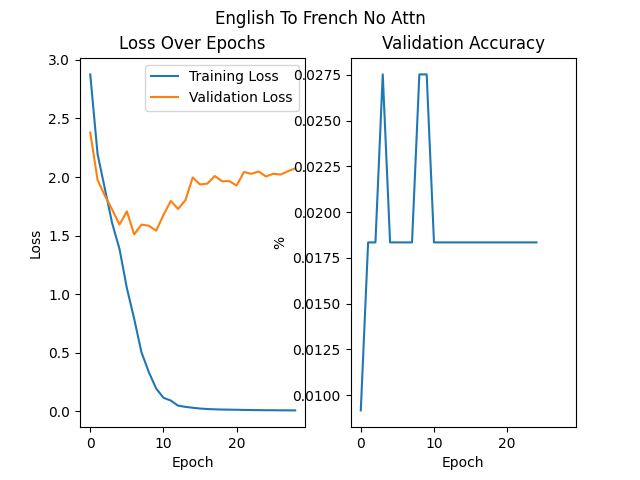
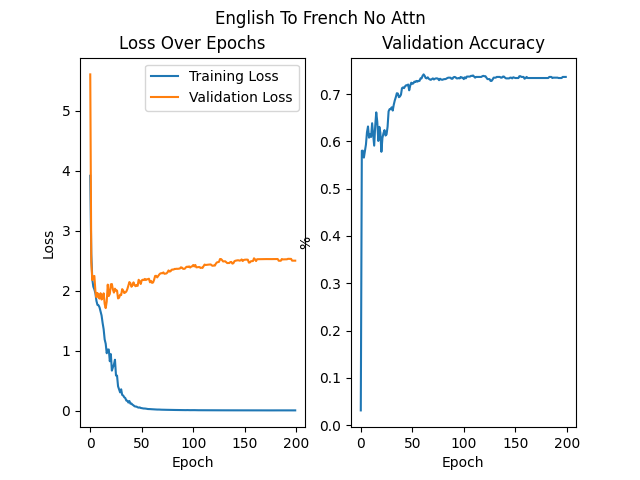
Coding is done

diff --git a/HM4/en2fr_attn.py b/HM4/en2fr_attn.py
@@ -1,46 +1,70 @@
 from data import english_to_french, english_to_french_qualitative
 import torch
 from torch import nn
-from jlib.get_enfr_loader import EnFrDataset, Language, get_enfr_loaders
+from jlib.get_enfr_loader import EnFrDataset, Language, get_enfr_loaders, genLangs
 from jlib.encoderdecoder import Translator, AttnDecoderRNN
 from torch.utils.data import DataLoader
 
 
-en2fr = EnFrDataset(english_to_french, max_length=10, gpu=True)
-en2fr_val = EnFrDataset(english_to_french_qualitative, max_length=10, gpu=True)
-train_loader = DataLoader(
-    en2fr,
-    batch_size = 8,
-    shuffle = True
+source_lang, target_lang = genLangs(english_to_french)
+train_set = EnFrDataset(
+    english_to_french,
+    max_length=12,
+    gpu=True,
+    source_lang=source_lang,
+    target_lang=target_lang,
+)
+val_set = EnFrDataset(
+    english_to_french_qualitative,
+    max_length=12,
+    gpu=True,
+    source_lang=source_lang,
+    target_lang=target_lang,
 )
 
-val_loader = DataLoader(
-    en2fr_val,
-    batch_size = 8,
-    shuffle = True
+train_loader = DataLoader(
+    train_set,
+    batch_size=32,
+    shuffle=True,
 )
+val_loader = DataLoader(
+    val_set,
+    batch_size=len(val_set),
+    shuffle=True,
+)
+
+
 
 translator = Translator(
-    input_size = en2fr.source_lang.n_words,
-    output_size = en2fr.target_lang.n_words,
+    input_size = train_set.source_lang.n_words,
+    output_size = train_set.target_lang.n_words,
     decoder=AttnDecoderRNN,
-    teacher_forcing_ratio=0.5,
+    teacher_forcing_ratio=0.6,
     hidden_size = 1024,
+    max_sentence_length=12,
     n_layers = 1,
-    dropout = 0.6,
+    dropout = 0.8,
 )
 
 translator.train_model(
     epochs = 100,
+    header_epoch=10,
     train_loader = train_loader,
     val_loader = val_loader,
     optimizer=torch.optim.Adam,
     optimizer_kwargs={'lr': 1e-3, 'weight_decay': 1e-5},
     min_accuracy=1,
     sched_patience=100,
-    max_negative_diff_count=100,
-    save_path='models/p2.pth'
+    stop_on_plateau=False,
+    save_path='models/en2fr_attn.pth'
 )
 
-fig = translator.plot_training('English To French With Attn')
-fig.savefig('plots/p2.png')
+fig = translator.plot_training('English To French No Attn')
+fig.savefig('plots/en2fr_attn.png')
+
+params = sum(p.numel() for p in translator.parameters())
+# 18664726
+# 77% token
+# 12% sentence
+# 25 second training
+print(f'The model has {params} parameters')

diff --git a/HM4/fr2en_no_attn.py b/HM4/fr2en_no_attn.py
@@ -1,48 +1,75 @@
 from data import english_to_french, english_to_french_qualitative
 import torch
 from torch import nn
-from jlib.get_enfr_loader import EnFrDataset, Language, get_enfr_loaders
+from jlib.get_enfr_loader import EnFrDataset, Language, get_enfr_loaders, genLangs
 from jlib.encoderdecoder import Translator
 from torch.utils.data import DataLoader
 
 
-en2fr = EnFrDataset(english_to_french, max_length=10, gpu=True)
-en2fr_val = EnFrDataset(english_to_french_qualitative, max_length=10, gpu=True)
+source_lang, target_lang = genLangs(english_to_french)
+train_set = EnFrDataset(
+    english_to_french,
+    max_length=12,
+    gpu=True,
+    source_lang=source_lang,
+    target_lang=target_lang,
+)
+val_set = EnFrDataset(
+    english_to_french_qualitative,
+    max_length=12,
+    gpu=True,
+    source_lang=source_lang,
+    target_lang=target_lang,
+)
 
-en2fr.reverse()
-en2fr_val.reverse()
+train_set.reverse()
+val_set.reverse()
+
 train_loader = DataLoader(
-    en2fr,
-    batch_size = 8,
-    shuffle = True
+    train_set,
+    batch_size=32,
+    shuffle=True,
+)
+val_loader = DataLoader(
+    val_set,
+    batch_size=len(val_set),
+    shuffle=True,
 )
 
-val_loader = DataLoader(
-    en2fr_val,
-    batch_size = 8,
-    shuffle = True
-)
+
+
 translator = Translator(
-    input_size = en2fr.target_lang.n_words,
-    output_size = en2fr.source_lang.n_words,
-    teacher_forcing_ratio=0.5,
+    input_size = train_set.source_lang.n_words,
+    output_size = train_set.target_lang.n_words,
+    teacher_forcing_ratio=0.6,
     hidden_size = 1024,
+    max_sentence_length=12,
     n_layers = 1,
-    dropout = 0.5,
+    dropout = 0.8,
 )
+
+
 
 translator.train_model(
-    epochs = 120,
+    epochs = 100,
+    header_epoch=10,
     train_loader = train_loader,
     val_loader = val_loader,
     optimizer=torch.optim.Adam,
     optimizer_kwargs={'lr': 1e-3, 'weight_decay': 1e-5},
     min_accuracy=1,
     sched_patience=100,
-    max_negative_diff_count=20,
-    save_path='models/p1.pth'
+    stop_on_plateau=False,
+    save_path='models/fr2en_noattn.pth'
 )
 
 fig = translator.plot_training('French To English No Attn')
-fig.savefig('plots/p1.png')
+fig.savefig('plots/fr2en_noattn.png')
 
+params = sum(p.numel() for p in translator.parameters())
+# 13418773
+
+#75% token
+#2% sentence
+# 15 second training
+print(f'The model has {params} parameters')

diff --git a/HM4/fr2en_attn.py b/HM4/fr2en_attn.py
@@ -2,7 +2,7 @@ from data import english_to_french, english_to_french_qualitative
 import torch
 from torch import nn
 from jlib.get_enfr_loader import EnFrDataset, Language, get_enfr_loaders, genLangs
-from jlib.encoderdecoder import Translator
+from jlib.encoderdecoder import Translator, AttnDecoderRNN
 from torch.utils.data import DataLoader
 
 
@@ -22,6 +22,9 @@ val_set = EnFrDataset(
     target_lang=target_lang,
 )
 
+train_set.reverse()
+val_set.reverse()
+
 train_loader = DataLoader(
     train_set,
     batch_size=32,
@@ -38,6 +41,7 @@ val_loader = DataLoader(
 translator = Translator(
     input_size = train_set.source_lang.n_words,
     output_size = train_set.target_lang.n_words,
+    decoder = AttnDecoderRNN,
     teacher_forcing_ratio=0.6,
     hidden_size = 1024,
     max_sentence_length=12,
@@ -57,16 +61,16 @@ translator.train_model(
     min_accuracy=1,
     sched_patience=100,
     stop_on_plateau=False,
-    save_path='models/en2fr_noattn.pth'
+    save_path='models/fr2en_attn.pth'
 )
 
-fig = translator.plot_training('English To French No Attn')
-fig.savefig('plots/en2fr_noattn.png')
+fig = translator.plot_training('French To English With Attn')
+fig.savefig('plots/fr2en_attn.png')
 
 params = sum(p.numel() for p in translator.parameters())
 # 13418773
 
-#73% token
+#75% token
 #2% sentence
 # 15 second training
 print(f'The model has {params} parameters')

diff --git a/HM4/jlib/encoderdecoder.py b/HM4/jlib/encoderdecoder.py
@@ -166,6 +166,7 @@ class Translator(nn.Module):
             epochs,
             train_loader: CudaDataPrefetcher,
             val_loader: CudaDataPrefetcher,
+            stop_on_plateau = False,
             loss_fn=nn.CrossEntropyLoss(),
             optimizer=torch.optim.SGD,
             optimizer_args = [],
@@ -288,7 +289,7 @@ class Translator(nn.Module):
                 sentence_accuracy = num_correct_sentences / len(val_loader.dataset)
                 val_loss = val_loss / len(val_loader)
                 
-                accuracy = sentence_accuracy
+                accuracy = token_accuracy
                 self.val_loss_hist[epoch] = val_loss                   
                 self.accuracy_hist[epoch] = accuracy
                 self.en_scheduler.step(accuracy)
@@ -327,7 +328,7 @@ class Translator(nn.Module):
                     print('|')
                     print(divider_string)
                     
-                if accuracy > min_accuracy or negative_acc_diff_count > max_negative_diff_count:
+                if stop_on_plateau and (accuracy > min_accuracy or negative_acc_diff_count > max_negative_diff_count):
                     break
 
             print(f'\nTraining Time: {training_time} seconds\n')

diff --git a/HM4/testp1.py b/HM4/testp1.py
@@ -2,19 +2,21 @@ from data import english_to_french
 import torch
 from torch import nn
 from jlib.get_enfr_loader import EnFrDataset, Language, get_enfr_loaders
-from jlib.encoderdecoder import Translator
+from jlib.encoderdecoder import Translator, AttnDecoderRNN
 from torch.utils.data import DataLoader
 
 en2fr = EnFrDataset(english_to_french, max_length=10, gpu=True)
 
-state_dict = torch.load('models/p1.pth')
+state_dict = torch.load('models/en2fr_attn.pth')
 translator = Translator(
     input_size = en2fr.source_lang.n_words,
     output_size = en2fr.target_lang.n_words,
+    decoder=AttnDecoderRNN,
     teacher_forcing_ratio=0.6,
     hidden_size = 1024,
-    n_layers = 5,
-    dropout = 0.5,
+    max_sentence_length=12,
+    n_layers = 1,
+    dropout = 0.8,
 )
 translator.load_state_dict(state_dict)
 translator.decoder.teacher_forcing_ratio = 0
